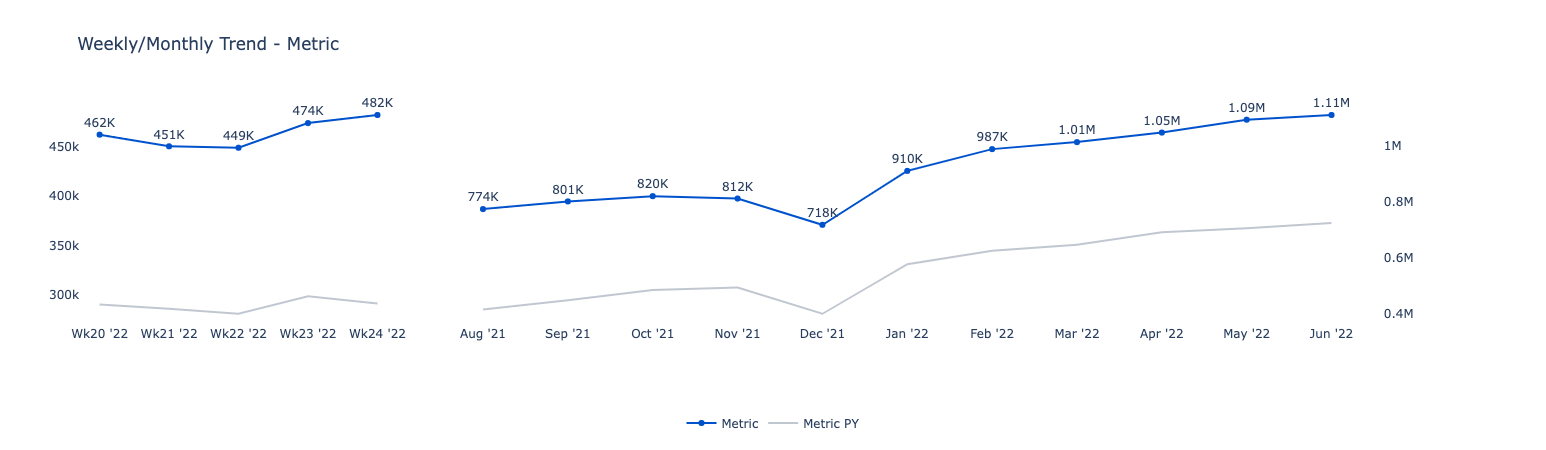
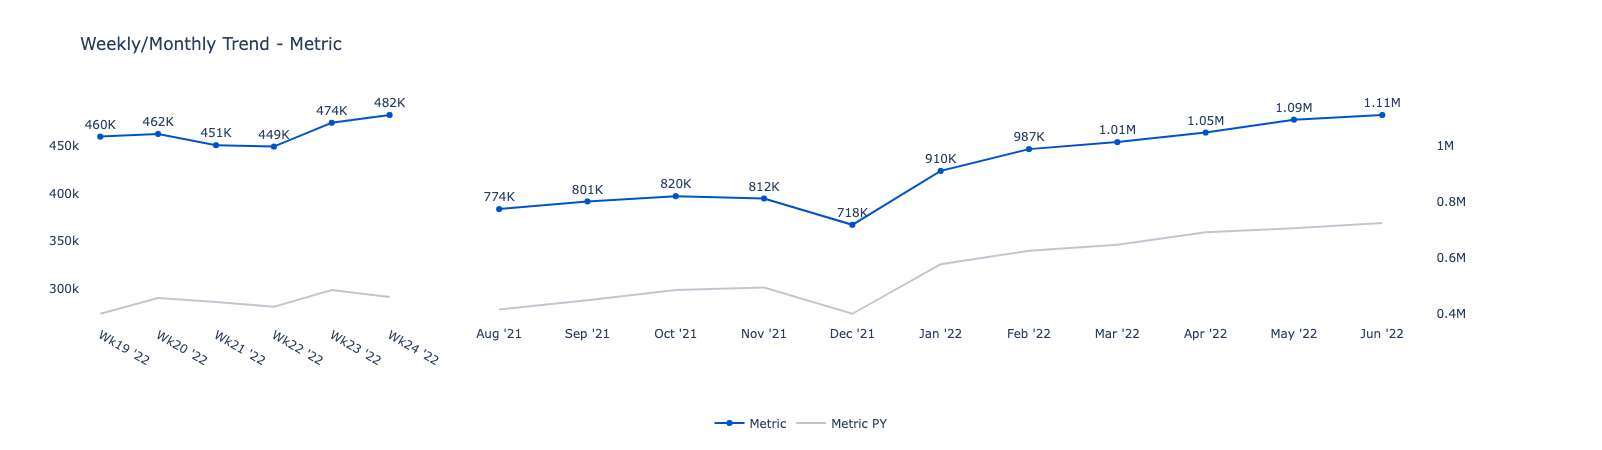
.

diff --git a/MetricVis/week_month_trend.py b/MetricVis/week_month_trend.py
@@ -68,7 +68,7 @@ class WeekMonthTrend:
         weekly_df.rename({self.col_name: self.metric_name}, axis=1, inplace=True)
         weekly_df["week"] = weekly_df.index.isocalendar().week
         weekly_df["year"] = weekly_df.index.year
-        weekly_df_sample = weekly_df.iloc[1 - self.week_lookback :]
+        weekly_df_sample = weekly_df.iloc[- self.week_lookback :]
         weekly_df_sample[self.metric_name_py] = weekly_df_sample.apply(
             get_week_before, axis=1, df=weekly_df, col=self.metric_name
         )
